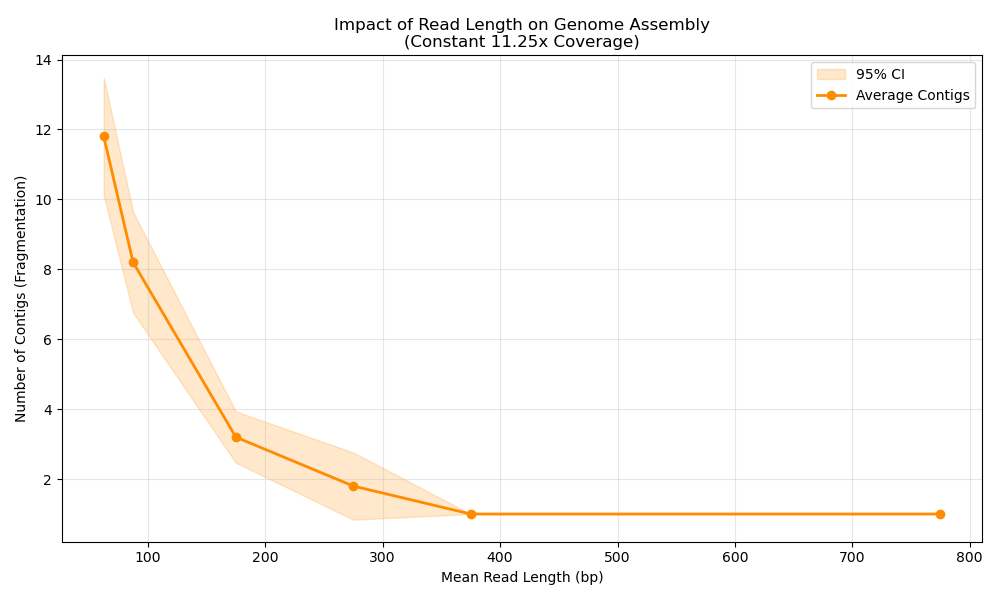
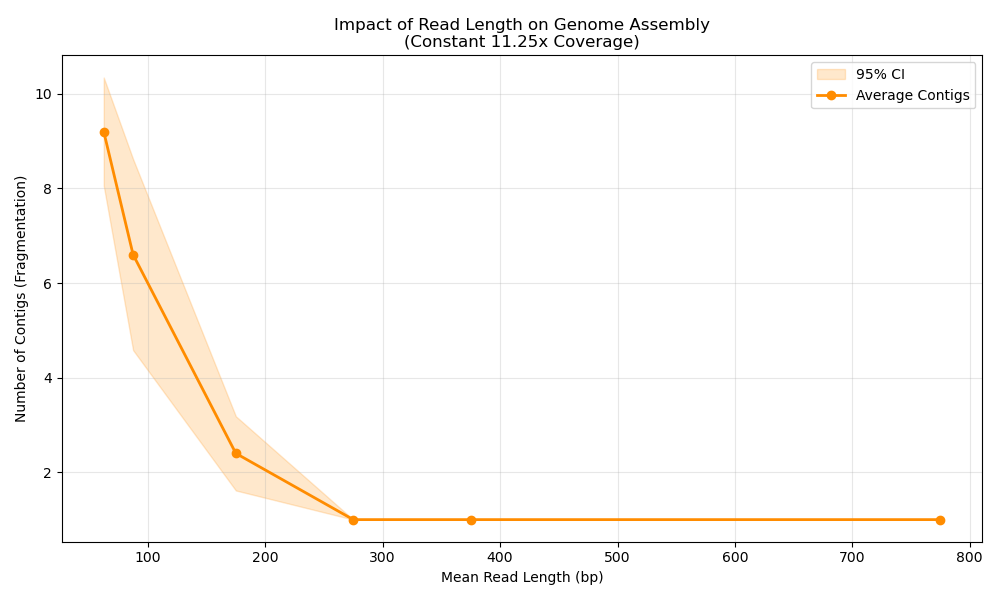
final commit

diff --git a/shortgun_simulation.py b/shortgun_simulation.py
@@ -2,7 +2,6 @@ import random
 import os
 import pysam
 import matplotlib.pyplot as plt
-from overlap import build_overlap_graph, draw_graph
 from alignment_visualization import (
     visualize_alignment, get_contigs, get_coverage, 
     plot_contigs, create_alignment_bam, plot_lander_waterman_sweep
@@ -191,11 +190,13 @@ def run_alignment_comparison():
     print("\n>>> Scenario 1: Human Mitochondrial Genome Assembly <<<")
     G = 16569
     L_min, L_max = 100, 150
+    L_mean = (L_min + L_max) / 2
+    L_std = np.std([L_min, L_max])
     N = 2500  # ~18x coverage to balance visibility and assembly quality
     
     # 1. Non-repeat genome
     genome_nr = generate_genome(G)
-    reads_nr = generate_reads(genome_nr, N, L_min, L_max)
+    reads_nr = generate_reads(genome_nr, N, L_mean, L_std)
     visualize_alignment(genome_nr, reads_nr, "alignment_nr_scenario1.png")
     display_simulation_results("S1: Non-Repeat Alignment (mtDNA size)", genome_nr, reads_nr, 
                                "temp_s1_nr.bam", "contigs_s1_nr.png")
@@ -209,7 +210,7 @@ def run_alignment_comparison():
         ("UNIQUE", 0.92)    # ~92% Unique coding sequences
     ]
     genome_r = generate_genome_with_repeats(G, snp_rate=0.01, repeat_sizes=repeat_sizes, weights=weights_r)
-    reads_r = generate_reads(genome_r, N, L_min, L_max)
+    reads_r = generate_reads(genome_r, N, L_mean, L_std)
     visualize_alignment(genome_r, reads_r, "alignment_r_scenario1.png")
     display_simulation_results("S1: Realistic mtDNA Assembly", genome_r, reads_r, 
                                "temp_s1_r.bam", "contigs_s1_r.png")
@@ -228,7 +229,7 @@ def run_assembly_comparison():
     
     # 1. Non-repeat genome
     genome_nr = generate_genome(G)
-    reads_nr = generate_reads(genome_nr, N, L_min, L_max)
+    reads_nr = generate_reads(genome_nr, N, L_mean, L_std)
     visualize_alignment(genome_nr, reads_nr, "alignment_nr_scenario2.png")
     display_simulation_results("S2: Non-Repeat Assembly", genome_nr, reads_nr, 
                                "temp_s2_nr.bam", "contigs_s2_nr.png")
@@ -243,7 +244,7 @@ def run_assembly_comparison():
         ("UNIQUE", 0.55)
     ]
     genome_r = generate_genome_with_repeats(G, snp_rate=0.005, repeat_sizes=repeat_sizes, weights=weights_r)
-    reads_r = generate_reads(genome_r, N, L_min, L_max)
+    reads_r = generate_reads(genome_r, N, L_mean, L_std)
     visualize_alignment(genome_r, reads_r, "alignment_r_scenario2.png")
     display_simulation_results("S2: Repeat Assembly (Fragmentation focused)", genome_r, reads_r, 
                                "temp_s2_r.bam", "contigs_s2_r.png")
@@ -256,7 +257,6 @@ def run_lander_waterman_sweep(genome_r, output_png, label, num_trials=10):
     """
     print(f"\n>>> Running Lander-Waterman Sweep Comparison: {label} ({num_trials} trials) <<<")
     G = len(genome_r)
-    # L = 100
     L_min, L_max = 50, 100
     L_mean = (L_min + L_max) / 2
     alpha_values = [0.2, 0.5, 0.8, 1.2, 1.5, 1.8, 2.2, 2.6, 3.0, 3.25, 3.6, 4.0, 4.4, 4.8, 5.2, 5.6, 6.0]
@@ -328,7 +328,6 @@ def run_read_length_sweep(genome_r, target_coverage, output_png, label, num_tria
     
     for L_min, L_max in length_ranges:
         L_mean = (L_min + L_max) / 2
-        # Calculate N to maintain constant coverage
         N = int((target_coverage * G) / L_mean)
         
         trial_counts = []
@@ -384,18 +383,18 @@ def run_read_length_sweep(genome_r, target_coverage, output_png, label, num_tria
 
 def main():
     """Executes the comparison scenarios and the sweeps."""
-    # run_alignment_comparison()
+    run_alignment_comparison()
     # 1. Sweep for Scenario 1 (Realistic Human mtDNA)
-    # G_s1 = 16569
-    # repeat_sizes_s1 = {"HVR": 150}
-    # weights_s1 = [("HVR", 0.03), ("TANDEM", 0.05), ("UNIQUE", 0.92)]
-    # genome_s1 = generate_genome_with_repeats(G_s1, snp_rate=0.01, repeat_sizes=repeat_sizes_s1, weights=weights_s1)
-    # run_lander_waterman_sweep(genome_s1, "lander_waterman_sweep_s1.png", "Scenario 1 (Human mtDNA)", num_trials=3)
+    G_s1 = 16569
+    repeat_sizes_s1 = {"HVR": 150}
+    weights_s1 = [("HVR", 0.03), ("TANDEM", 0.05), ("UNIQUE", 0.92)]
+    genome_s1 = generate_genome_with_repeats(G_s1, snp_rate=0.01, repeat_sizes=repeat_sizes_s1, weights=weights_s1)
+    run_lander_waterman_sweep(genome_s1, "lander_waterman_sweep_s1.png", "Scenario 1 (Human mtDNA)", num_trials=3)
     
-    # run_assembly_comparison()
+    run_assembly_comparison()
     
     
-    # # 2. Sweep for Scenario 2 (Human Nuclear Genome)
+    # 2. Sweep for Scenario 2 (Human Nuclear Genome)
     G_s2 = 4000
     repeat_sizes_s2 = {"LINE": 1000, "SINE": 300, "LTR": 500, "DNA": 300}
     weights_s2 = [
@@ -403,9 +402,9 @@ def main():
         ("DNA", 0.03), ("UNIQUE", 0.55)
     ]
     genome_s2 = generate_genome_with_repeats(G_s2, snp_rate=0.005, repeat_sizes=repeat_sizes_s2, weights=weights_s2)
-    # run_lander_waterman_sweep(genome_s2, "lander_waterman_sweep_s2.png", "Scenario 2 (Human Nuclear)", num_trials=5)
+    run_lander_waterman_sweep(genome_s2, "lander_waterman_sweep_s2.png", "Scenario 2 (Human Nuclear)", num_trials=5)
     
-    # # 3. Read Length Sweep Analysis (Scenario 2 Extension)
+    # 3. Read Length Sweep Analysis (Scenario 2 Extension)
     run_read_length_sweep(genome_s2, target_coverage=11.25, output_png="read_length_sweep_s2.png", label="Scenario 2 Length Impact", num_trials=5)
 
 
